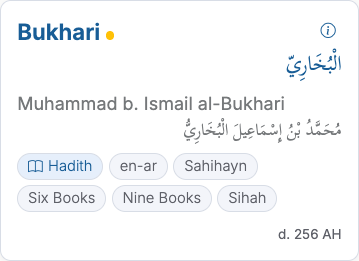
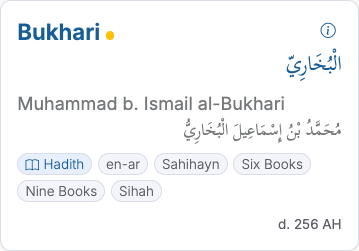
Make compact catalog pills filter books from cards and details

diff --git a/docs/design-system/library.html b/docs/design-system/library.html
@@ -40,7 +40,7 @@
   </section>
   <section id="catalog"><h2>Book discovery</h2><p>The <code>/books</code> catalog uses the Settings hierarchy. Use the shared interface font for collection and group headings, catalog navigation and the right-hand index. Arabic and English book titles share an item size. Kitab retains its own line height for Arabic marks. A narrow Midnight underline identifies the current desktop collection. Book links use the Ivory accent.</p><div class="grid">
       <article><h3>Collection navigation &amp; local filters</h3><img src="catalog/collections.png" alt="Six collection names with a Midnight underline under Hadith"><img src="catalog/filters.png" alt="Search books with expanded size and collection filters"><p>The header presents six text links on desktop and a native collection picker on phones. Place local search and filters at the top of the Books right rail. Below 992 px, the Filter books disclosure exposes the same controls. Group size, language, and classification choices under Filters. Summarize active choices on the closed disclosure. Returning from a book restores the search and filters for that history entry.</p></article>
-      <article><h3>Bilingual catalog card</h3><img src="catalog/book.png" alt="Book title and author in English and Arabic with classification and details controls"><p>Pair the type label with its decorative navigation icon. Hadith and Mushaf use the open book, Tafsir the half book, translations the translation symbol, History &amp; Sirah the Madani artwork, and Sharḥ the annotated journal. Show type, language and classifications as individual rounded pills that wrap between labels. Set all pill labels in Inter Light (300). Tint the type pill blue and use a neutral fill for language and groups. The bilingual badge reads en-ar. Reserve button styling for actions. Keep the canonical title link separate from the details button. Use card width to position paired titles. Below 24 rem of usable width, Arabic sits on a right-aligned row beneath English, aligned with the Arabic author. Wider cards use separate columns on one row. Give Arabic its own direction and typeface, and keep source classifications and dates attached to their book. Escape closes details and returns focus to its opener.</p></article>
+      <article><h3>Bilingual catalog card</h3><img src="catalog/book.png" alt="Book title and author in English and Arabic with classification and details controls"><p>Pair the type label with its decorative navigation icon. Hadith and Mushaf use the open book, Tafsir the half book, translations the translation symbol, History &amp; Sirah the Madani artwork, and Sharḥ the annotated journal. Show type, language and classifications as individual rounded pills that wrap between labels. Set all pill labels in Inter Light (300). Tint the type pill blue and use a neutral fill for language and groups. The bilingual badge reads en-ar. Use compact 0.75 rem pill links. A group or language pill filters the collection, and the type pill returns to its full collection. Keep the canonical title link separate from the details button. Use card width to position paired titles. Below 24 rem of usable width, Arabic sits on a right-aligned row beneath English, aligned with the Arabic author. Wider cards use separate columns on one row. Give Arabic its own direction and typeface, and keep source classifications and dates attached to their book. Escape closes details and returns focus to its opener.</p></article>
       <article><h3>Collection index</h3><img src="catalog/rail.png" alt="Sahihayn rail heading and its three book links"><p>Use mixed-case sans-serif navigation in the desktop rail. Set the collection name above the semibold group labels, with regular-weight book links beneath each group.</p></article>
     </div></section>
   <section id="choices"><h2>Choices &amp; preferences</h2>

diff --git a/public/static/js/book-catalog.js b/public/static/js/book-catalog.js
@@ -194,12 +194,23 @@
       var classifications = document.createElement('div');
       classifications.className = 'book-catalog-classifications';
       classifications.setAttribute('aria-label', 'Book classifications');
-      [type].concat(ids.map(function (id) { return groups.get(id); }).filter(Boolean)).forEach(function (label, index) {
-        var pill = document.createElement('span');
-        pill.className = 'book-catalog-pill' + (index === 0 ? ' book-catalog-type-pill' : '');
-        pill.textContent = label;
-        if (index === 0 && typeIcon) pill.prepend(typeIcon.content.firstElementChild.cloneNode(true));
-        classifications.append(pill);
+      var collection = { Hadith: 'hadith', Mushaf: 'mushaf', Tafsir: 'tafsir', Translation: 'translation', 'Sharḥ': 'sharh', 'History & Sirah': 'history' }[type];
+      function makePill(label, facet, value) {
+        var link = document.createElement('a');
+        link.className = 'book-catalog-pill';
+        link.href = '/books?' + collection + (facet === 'type' ? '' : '&' + facet + '=' + encodeURIComponent(value));
+        link.dataset.catalogFacet = facet;
+        link.dataset.catalogValue = value;
+        link.setAttribute('aria-label', facet === 'type' ? 'Show all ' + label + ' books' : 'Filter books by ' + label);
+        link.textContent = label;
+        return link;
+      }
+      var typePill = makePill(type, 'type', collection);
+      typePill.classList.add('book-catalog-type-pill');
+      if (typeIcon) typePill.prepend(typeIcon.content.firstElementChild.cloneNode(true));
+      classifications.append(typePill);
+      ids.forEach(function (id) {
+        if (groups.has(id)) classifications.append(makePill(groups.get(id), 'group', id));
       });
       var languageBadge = details.querySelector('.book-language-badge');
       var language = languageBadge ? languageBadge.textContent.trim()
@@ -207,10 +218,9 @@
       // Cached catalog markup can still contain the older uppercase badge.
       if (language === 'EN-AR') language = 'en-ar';
       if (language) {
-        var languagePill = document.createElement('span');
-        languagePill.className = 'book-catalog-pill book-catalog-language-pill';
-        languagePill.textContent = language;
-        languagePill.setAttribute('aria-label', 'Language: ' + language);
+        card.dataset.catalogBadge = language.toLowerCase();
+        var languagePill = makePill(language, 'badge', card.dataset.catalogBadge);
+        languagePill.classList.add('book-catalog-language-pill');
         classifications.insertBefore(languagePill, classifications.children[1] || null);
       }
       summary.append(classifications);

diff --git a/public/static/css/books.css b/public/static/css/books.css
@@ -10,7 +10,7 @@
 .catalog-options .btn[aria-pressed=true] { color: var(--ux-accent); border-color: var(--ux-accent); background: var(--ivory-selected, var(--ux-surface)); }
 .book-catalog-page :is(button, summary, a):focus-visible { outline: var(--ux-focus-ring); outline-offset: 2px; }
 .book-catalog-page .book-catalog-compact .tafsir-book-row, .book-catalog-page.book-catalog-compact .tafsir-book-row { background: var(--ux-surface); }
-.book-catalog-page .book-catalog-summary a, .book-catalog-page .book-catalog-details-button { color: var(--ux-accent); }
+.book-catalog-page .book-catalog-summary a:not(.book-catalog-pill), .book-catalog-page .book-catalog-details-button { color: var(--ux-accent); }
 .book-catalog-summary { container: book-summary / inline-size; }
 .book-catalog-summary .tafsir-book-title-pair {
   display: grid; grid-template-columns: minmax(0, 1fr) auto; align-items: start; gap: .15rem .5rem;
@@ -64,8 +64,10 @@
 }
 
 .book-catalog-classifications { align-items: center; gap: .3rem; }
-.book-catalog-pill { padding: .12rem .55rem; font: 300 var(--ux-caption-size)/1.4 var(--ux-font-ui); background: var(--ivory-inset, var(--bs-tertiary-bg)); }
+.book-catalog-pill { padding: .05rem .4rem; text-decoration: none; font: 300 .75rem/1.35 var(--ux-font-ui); background: var(--ivory-inset, var(--bs-tertiary-bg)); }
 .book-catalog-type-pill { color: var(--ivory-accent, var(--c-accent)); background: var(--ivory-selected, var(--c-primary-soft-08)); }
 .book-catalog-summary .tafsir-book-meta { font-size: 1rem; }
 
 .book-catalog-type-pill .app-menu-icon { width: 1em; height: 1em; font-size: 1em; line-height: 1; margin: 0 .35em 0 0; vertical-align: -.1em; }
+
+.book-catalog-pill:is(:hover, :focus-visible) { border-color: currentColor; text-decoration: underline; }

diff --git a/spec/booksRouteCache.spec.js b/spec/booksRouteCache.spec.js
@@ -52,7 +52,7 @@ describe('books catalog performance path', () => {
   test('serves a disk cache hit before Elasticsearch, SQL, or Tafsir lookups', async () => {
     const req = request();
     const res = response();
-    const cachedFile = `${require('os').homedir()}/.hadithdb/cache/hadith${Utils.cacheSuffix()}/books/_books-makeover-v2.html`;
+    const cachedFile = `${require('os').homedir()}/.hadithdb/cache/hadith${Utils.cacheSuffix()}/books/_books-makeover-v3.html`;
     jest.spyOn(Utils, 'shouldFlushCache').mockReturnValue(false);
     jest.spyOn(Utils, 'cachedTextPathForRead').mockReturnValue(`${cachedFile}.gz`);
     jest.spyOn(Utils, 'sendCachedHtml').mockReturnValue(true);
@@ -70,7 +70,7 @@ describe('books catalog performance path', () => {
   test('uses the same versioned cache path for rendering and metadata invalidation', () => {
     const route = fs.readFileSync(path.join(__dirname, '..', 'routes', 'books.js'), 'utf8');
     const updates = fs.readFileSync(path.join(__dirname, '..', 'routes', 'update.js'), 'utf8');
-    expect(route).toContain("Utils.cacheFileFromFilename('_books-makeover-v2', 'html', 'books', 'hadith')");
+    expect(route).toContain("Utils.cacheFileFromFilename('_books-makeover-v3', 'html', 'books', 'hadith')");
     expect(updates).toContain("Utils.flushCachedFile(Utils.cacheFileFromFilename('_books', 'html', 'books', 'hadith'))");
   });
 

diff --git a/routes/update.js b/routes/update.js
@@ -1349,7 +1349,7 @@ async function flushBookCaches(bookAliases) {
   for (const bookAlias of aliases)
     await Utils.flushCacheContaining(bookAlias);
   await Utils.flushCachedFile(Utils.cacheFileFromFilename('_books', 'html', 'books', 'hadith'));
-  await Utils.flushCachedFile(Utils.cacheFileFromFilename('_books-makeover-v2', 'html', 'books', 'hadith'));
+  await Utils.flushCachedFile(Utils.cacheFileFromFilename('_books-makeover-v3', 'html', 'books', 'hadith'));
   await Utils.flushCachedFile(Utils.cacheFileFromFilename('_books'));
   await Utils.flushCachedFile(`${cacheDir}/_books.html`);
   if (!fs.existsSync(cacheDir))
@@ -1383,7 +1383,7 @@ async function flushQuranCatalogBookCaches(bookAliases) {
   await Utils.flushCacheContaining('tafsirs');
   await Utils.flushCacheContaining('tafsir:books');
   await Utils.flushCachedFile(Utils.cacheFileFromFilename('_books', 'html', 'books', 'hadith'));
-  await Utils.flushCachedFile(Utils.cacheFileFromFilename('_books-makeover-v2', 'html', 'books', 'hadith'));
+  await Utils.flushCachedFile(Utils.cacheFileFromFilename('_books-makeover-v3', 'html', 'books', 'hadith'));
   await Utils.flushCachedFile(Utils.cacheFileFromFilename('_books'));
   await Utils.flushCachedFile(`${cacheDir}/_books.html`);
   await Utils.flushCachedFile(`${cacheDir}/_books`);

diff --git a/spec/bookCatalogPresentation.spec.js b/spec/bookCatalogPresentation.spec.js
@@ -119,6 +119,21 @@ test('opens the redesigned catalog at its canonical collection URL', async () =>
   dom.window.close();
 });
 
+test('card and details pills drive the catalog filters', async () => {
+  const dom = browser(await render('books.ejs'));
+  const doc = dom.window.document;
+  const card = doc.querySelector('#book-catalog-hadith .book-catalog-card');
+  card.querySelector('.book-catalog-summary [data-catalog-facet="group"]').click();
+  expect(doc.querySelector('[data-book-catalog-group-filter="sihah"]').getAttribute('aria-pressed')).toBe('true');
+  card.querySelector('.book-catalog-details-button').click();
+  doc.querySelector('dialog [data-catalog-facet="badge"]').click();
+  expect(doc.querySelector('dialog').open).toBe(false);
+  expect(doc.querySelector('[data-catalog-badge-filter="ar"]').getAttribute('aria-pressed')).toBe('true');
+  card.querySelector('.book-catalog-summary [data-catalog-facet="type"]').click();
+  expect(doc.querySelector('[data-book-catalog-group-filter=""]').getAttribute('aria-pressed')).toBe('true');
+  dom.window.close();
+});
+
 test('renders book tabs inside the fixed header and connects them to the existing panes', async () => {
   const dom = browser(await render('books.ejs'));
   const doc = dom.window.document;

diff --git a/routes/books.js b/routes/books.js
@@ -67,7 +67,7 @@ async function renderCatalog(req, res) {
   res.locals.res = res;
   const editMode = req.admin && req.editMode;
   const cacheableHtml = !('json' in req.query) && !('tsv' in req.query) && !['tab', 'hadith', 'translation', 'tafsir', 'sharh', 'history', 'mushaf'].some(key => key in req.query);
-  const cachedFile = Utils.cacheFileFromFilename('_books-makeover-v2', 'html', 'books', 'hadith');
+  const cachedFile = Utils.cacheFileFromFilename('_books-makeover-v3', 'html', 'books', 'hadith');
   const flushCache = Utils.shouldFlushCache(req);
   if (flushCache) {
     await Utils.flushCachedFile(cachedFile, { strict: true });
